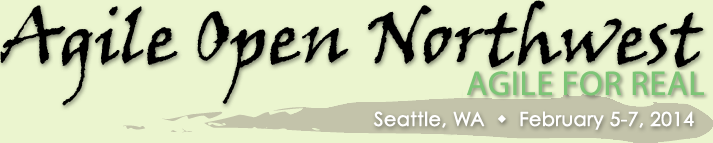
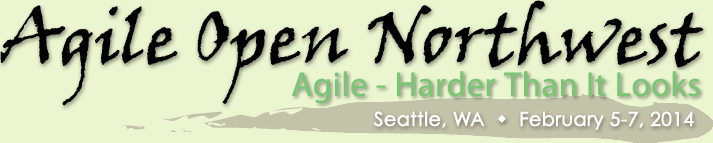
theme

Changed region(s): [[0.4011, 0.4755, 1.0, 0.7552]]

diff --git a/2014/index.php b/2014/index.php
@@ -28,7 +28,7 @@ div.questions { margin: 0 2em; font-family: Times New Roman,serif;font-style: it
 
 <p class="quote">"I was able to reconnect with the agile / Local community in a way that gives me so much positive energy!"
 
-<h2><!-- <span style="text-transform:uppercase;"><?php echo $event_theme ?></span> --><br/>Agile Open Northwest <?php echo $event_year ?></h2>
+<h2><span style="text-transform:uppercase;"><?php echo $event_theme ?></span><br/>Agile Open Northwest <?php echo $event_year ?></h2>
 
 <p>Agile Open Northwest, a non-profit alliance of agile practitioners in the US Pacific Northwest region, presents our eighth annual conference! 
 

diff --git a/2014/event_info.php b/2014/event_info.php
@@ -3,7 +3,7 @@
   $event_dates = "February 5 to 7, 2014";
   $event_limit = 175; /* Set the maximum number of paying attendees */
   $event_cost = '$250'; /* "$125" or "TBD" */
-  $event_theme = "Agile for REAL";
+  $event_theme = "Agile - Harder Than It Looks...";
   $whats_included = "a continental breakfast, lunch each day, and dinner on the first night";
   $conference_email_alias = "aonw2014@agileopennorthwest.org";
 
